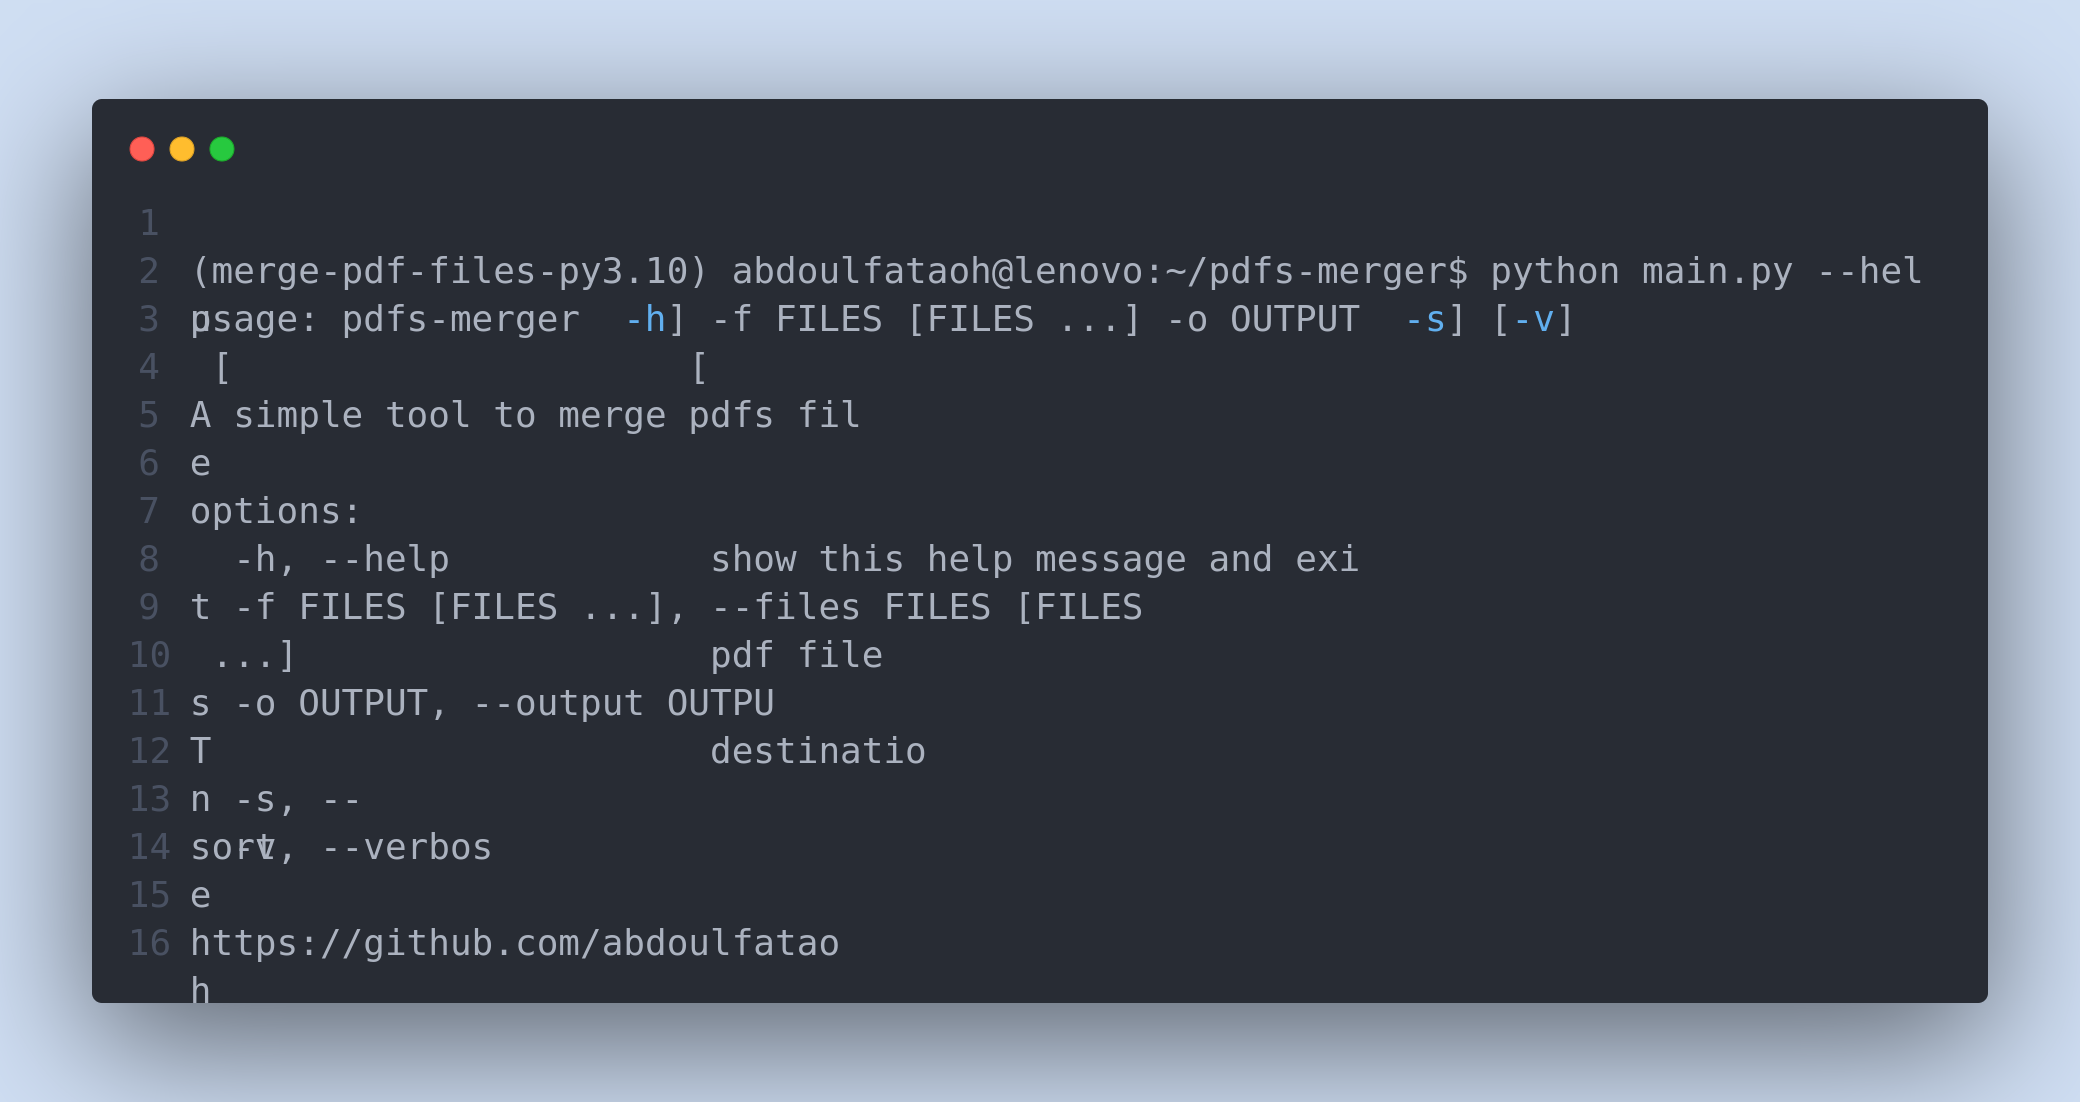
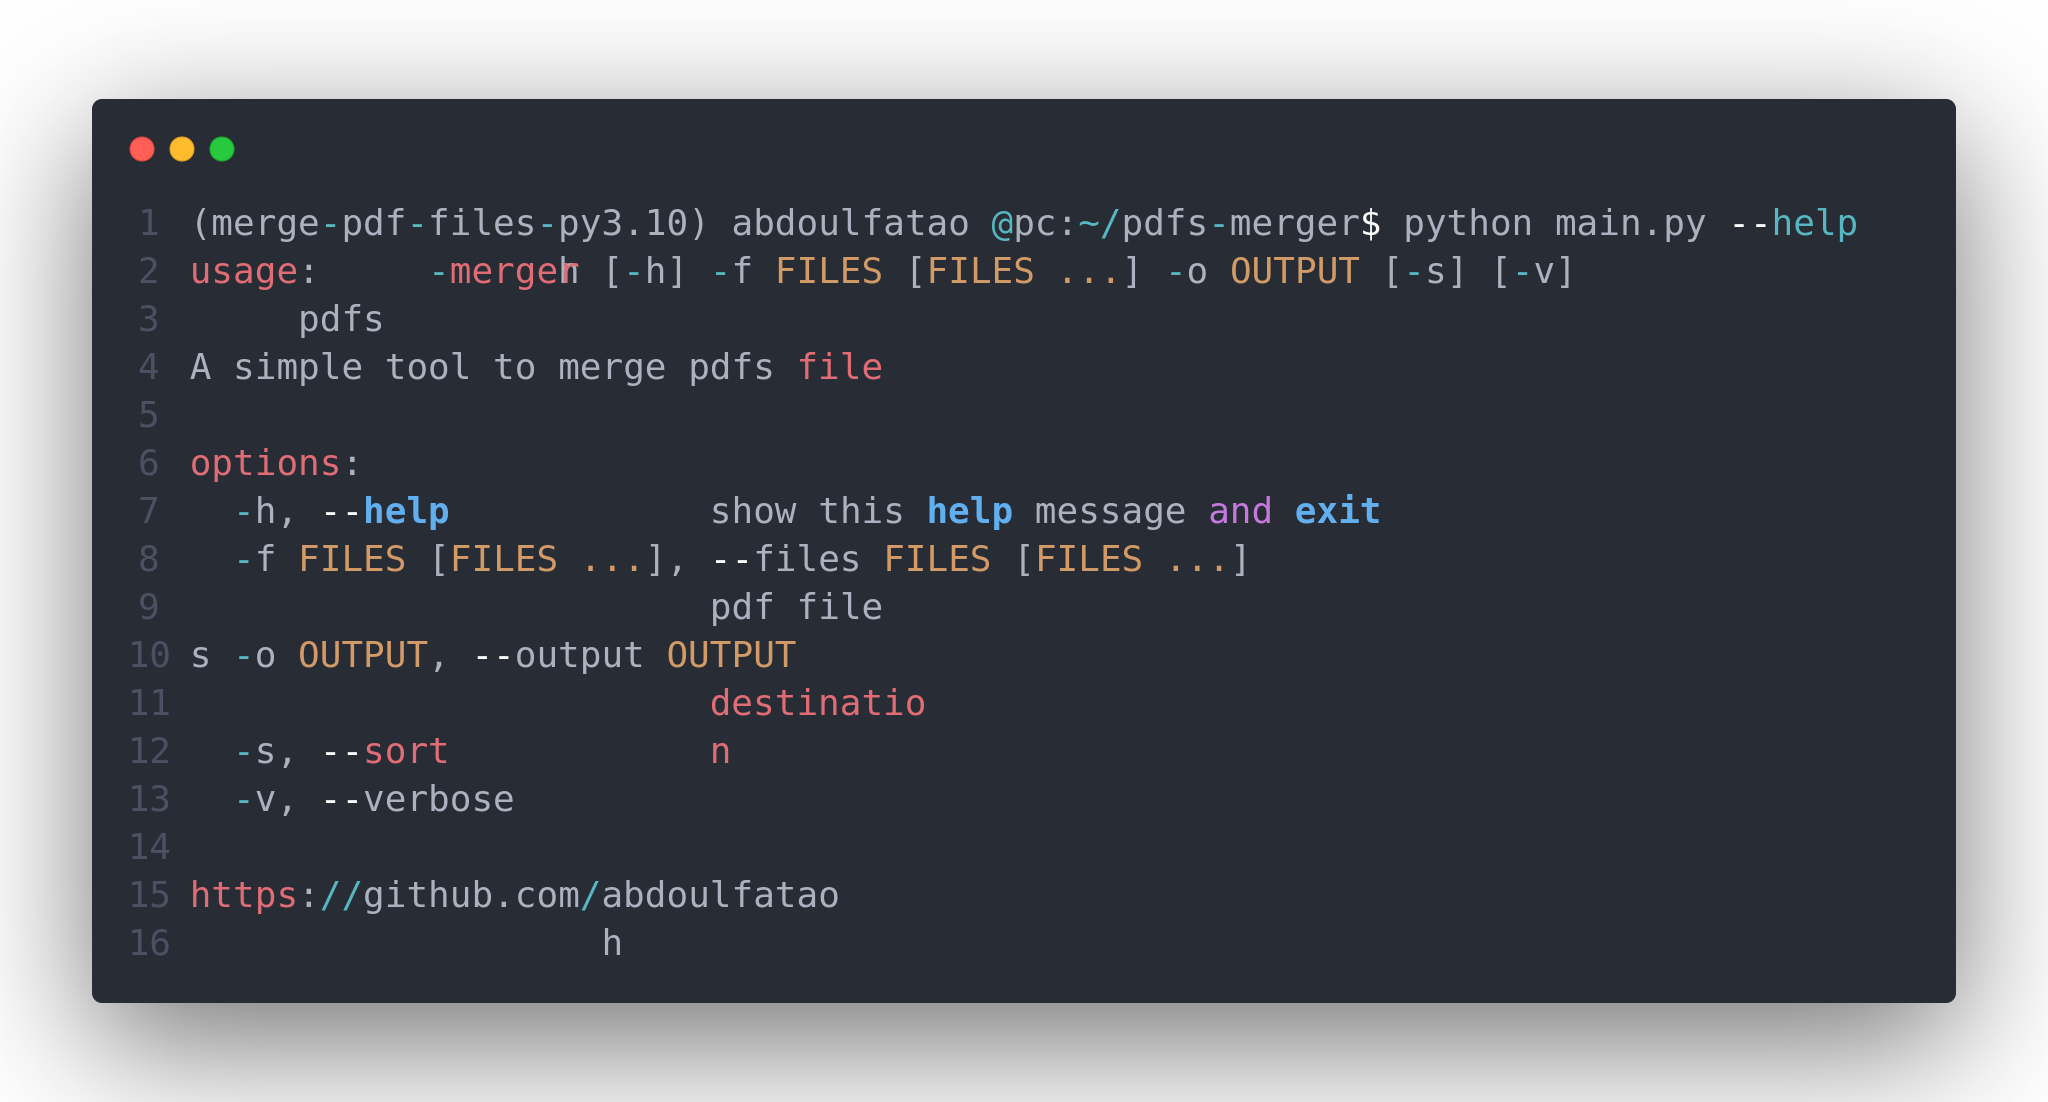
update help.png

diff --git a/main.py b/main.py
@@ -64,3 +64,19 @@ if __name__ == '__main__':
     )
 
     merger.merge(destination)
+
+(merge-pdf-files-py3.10) abdoulfataoh@pc:~/pdfs-merger$ python main.py --help
+usage: pdfs-merger [-h] -f FILES [FILES ...] -o OUTPUT [-s] [-v]
+
+A simple tool to merge pdfs file
+
+options:
+  -h, --help            show this help message and exit
+  -f FILES [FILES ...], --files FILES [FILES ...]
+                        pdf files
+  -o OUTPUT, --output OUTPUT
+                        destination
+  -s, --sort
+  -v, --verbose
+
+https://github.com/abdoulfataoh
